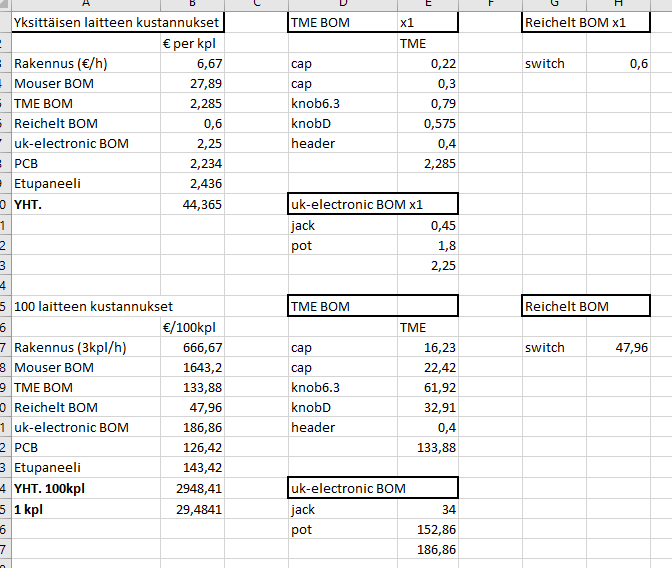
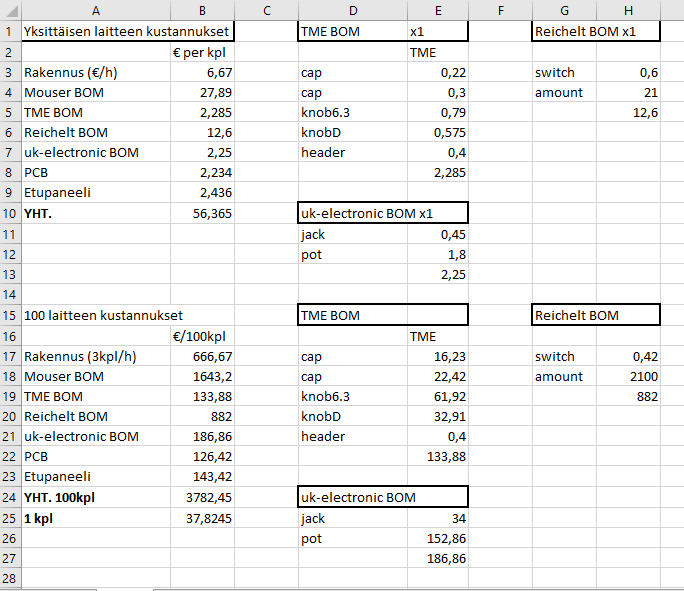
Add references, fix calculations

Changed region(s): [[0.0, 0.0, 1.0, 1.0]]

diff --git a/README.md b/README.md
@@ -68,7 +68,7 @@ Arduino a. What is Arduino?. Luettavissa: https://www.arduino.cc/en/Guide/Introd
 
 Arduino b.
 
-  * Arduino - Avoimen lähdekoodin alusta elektroniikka projektien kehitykseen [(Arduino a)](https://www.arduino.cc/en/Guide/Introduction).
+  * Arduino - Avoimen lähdekoodin alusta elektroniikka projektien kehitykseen. [(Louis 2016, 21)](https://www.arduino.cc/en/Guide/Introduction).
   * Teensy - Arduinon kaltainen, elektroniikka projektien kehitysalusta [(PJRC)](https://www.pjrc.com/teensy/).
   * Eurorack - De-facto standardi pienikokoisille modulaarisille syntetisaattoreille [(Leonora Tindall 2020)](https://nora.codes/post/modular-synthesis-and-unix/).
   * CV (Control Voltage) - Ohjausjännite, jolla voidaan ohjata analogisten syntetisaattoreiden eri osia.
@@ -76,8 +76,8 @@ Arduino b.
   * Oskillaattori - 
   * Sekvensseri - Musiikin tuotannossa käytetty ylensä elektroninen laite tai ohjelmisto, jonka avulla voidaan toistaa, muokata ja soittaa musikaalisia sekvenssejä.
   * Step - Askel. Sekvenssereissä käytetty määre, jolla mitataan sekvenssin pituutta.
-  * DAC (Digital to Analog Converter) - Mikropiiri, joka muuttaa sille annetun digitaalisen signaalin analogiseksi jännitteeksi. (Tähän lähde)
-  * SPI (Serial Peripheral Interface) - Tietoteknisten järjestelmiän käyttämä väylä, jonka avulla kokonaisen laitteen eri komponentit keskustelevat keskenään. (Etsi tähän lähde)
+  * DAC (Digital to Analog Converter) - Mikropiiri, joka muuttaa sille annetun digitaalisen signaalin analogiseksi jännitteeksi. (Rahman & al. 2016 s. 151)
+  * SPI (Serial Peripheral Interface) - Kaksisuuntainen kommunikaatioprotokolla, jolla yksi päälaite keskustelee useiden alilaitteiden kanssa. (Leens 2009)
   * PCB (Printed Circuit Board) - Piirilevy.
 
 ## 2. Taustaa
@@ -107,7 +107,7 @@ Tämän opinnäytetyön aikana valmistuva sekvensseri on myös sulautettu järje
 
 Tekninen monistaminen tämän opinnäytetyön puitteissa tarkoittaa opinnäytetyön aikana valmistuvan laitteen laitteen prototyypin kehittämistä siihen tilaan, että käsityötä vaativat prosessit ovat minimoitu ja suuri osa työstä saatettu automatisoitavaan tilaan. Laitteen prototyyppivaiheessa rakennus vaatii paljon komponenttien asettelua ja kolvaamista käsin.
 
-Tekninen monistaminen voidaan nähdä osana "rapid prototyping" teknologioita. "Rapid prototyping" teknologiat sekä prosessit ovat teollisuudessa käytettyjä prosesseja, joilla pyritään nopeuttamaan tuotteiden ja prototyyppien valmistusta. Näihin teknologioihin kuuluu esimerkiksi 3D-tulostus (/*Vaihda lähde, kirjoita uudestaan.*/ Kai, C. C., & Fai, L. K. (1997). Rapid Prototyping. Nanyang technological university). Esimerkiksi opinnäytetyön laitteen piirilevyt piirretään CAD-ohjelmistolla, jonka jälkeen piirilevyt tilataan niitä valmistavalta tehtaalta. Tällä prosessilla vältyytään piirilevyjen valmistamiselta itse ja lopputuloksena ovat yhdenmukaiset piirilevyt.
+Tekninen monistaminen voidaan nähdä osana "rapid prototyping" teknologioita. "Rapid prototyping" teknologiat sekä prosessit ovat teollisuudessa käytettyjä prosesseja, joilla pyritään nopeuttamaan tuotteiden ja prototyyppien valmistusta. Näihin teknologioihin kuuluu esimerkiksi 3D-tulostus [(Yue, Gu 1996, s. 307)](https://doi.org/10.1016/0010-4485(95)00035-6). Esimerkiksi opinnäytetyön laitteen piirilevyt piirretään CAD-ohjelmistolla, jonka jälkeen piirilevyt tilataan niitä valmistavalta tehtaalta. Tällä prosessilla vältyytään piirilevyjen valmistamiselta itse ja lopputuloksena ovat yhdenmukaiset piirilevyt.
 
 Valmistuvan laitteen teknisesti monistettava muoto ei tulisi sisältämään kuin pakollisen määrän komponentteja, jotka vaativat ihmisen niiden asennukseen. Esimerkiksi laitteen piirilevyjen valmistuksen aikana olisi mahdollista myös juottaa suuri osa komponenteista tehtaalla, jos laite rakentuisi pintaliitoskomponenteista.
 
@@ -145,7 +145,7 @@ Karpilla kertoo valmistuksessa ja suunnittelussa pyrkineensä yksinkertaisuuteen
 
 Jotta Karppilan laite saavuttaisi halutun laajan kohderyhmänsä tulisi laitteen kytkentöjen olla pysyviä ja laitteen eri komponenttien osana yhtä kokonaisuutta. Karppilan laitteen kohderyhmää rajoittaa näin ollen se, että laitetta tulisi harkitsemaan vain ne, joilla olisi osaamista ja halukkuutta rakentaa käsin Arduino-kehitysalustalle oma laitteensa.
 
-Laitetta ei välttämättä olisi tarvinnut koota täysin omaksi kokonaisuudekseen, vaan Arduino-alustan komponenteista oltaisiin voitu rakentaa "Arduino-kilpi". Arduino-kilvet ovat valmiita laitekokonaisuuksia, jotka voidaan kytkeä suoraan Arduino-kehitysalustaan [(Arduino b)](https://www.arduino.cc/en/Main/arduinoShields). Laitteen käyttäjän olisi vielä kuitenkin tarvinnut ohjelmoida laite.
+Laitetta ei välttämättä olisi tarvinnut koota täysin omaksi kokonaisuudekseen, vaan Arduino-alustan komponenteista oltaisiin voitu rakentaa "Arduino-kilpi". Arduino-kilvet ovat valmiita laitekokonaisuuksia, jotka voidaan kytkeä suoraan Arduino-kehitysalustaan. [(Louis 2016, 22.)](https://doi.org/10.5121/ijcacs.2016.1203) Laitteen käyttäjän olisi vielä kuitenkin tarvinnut ohjelmoida laite.
 
   // Viittaa täällä vielä konkreettisiin prosesseihin, joita Karppila olisi voinut tehdä (Kicad, kytkentäkaavat jne.) Viittaa tähän opinnäytetyön ja projektin rakennusvaiheisiin
 
@@ -234,6 +234,14 @@ Etupaneelin grafiikoiden suunnittelussa käytettiin KiCadin lisäksi myös GIMP-
 
 **x.1.1 Piirilevy**
 
+Ennen varsinaisten piirilevyjen piirtoa kannattaa selvittää piirilevyjä valmistavia yrityksiä, sekä näiden yritysten tarjoamia palveluita. Komponenttien ja piirien kannalta on hyvä tarkastella yrityksen piirilevyille asettamia rajoituksia. Rajoituksia voivat olla esimerkiksi piirien johtimien minimimitta tai piirilevyn minimi- ja maksimitat. Rajoitukset voivat vaikuttaa komponenttien valintaan, jos halutaan käyttää esimerkiksi todella pieniä mikropiirejä, tai ohuita ja toisiaan lähellä olevia johtimia.
+
+![jlcspec](./imgs/jlcspecs001.png)
+
+_JLCPCB:n minimimittoja johtimille_
+
+Piirilevyjen valmistajaksi valittiin tässä projektissa JLCPCB. Valinta tehtiin opinnäytetyöntekijän aikaisemman kokemuksen johdosta. Muita vastaavia palveluja tuottavia yrityksiä ovat mm. ALLPCB sekä Seeed Studio.
+
 Teknisen monistamisen helpottamiseksi piirilevyllä päätettiin käyttää pintaliitoskomponentteja niin paljon kuin mahdollista. Pintaliitoskomponentit on mahdollista juotatuttaa kiinni piirilevyyn valmiiksi monilla piirilevyjä valmistavilla tehtailla. Tämä laskisi merkittävästi laitteen rakennusaikaa ja näin laskisi laitteen mahdollista katteetonta hintaa.
 
 Piirilevyn piirron aikana ensiksi asetettiin paikoilleen käyttöliittymän kriittisimmät komponentit, kuten painikkeet, segmenttinäytöt sekä ulostulojakit.
@@ -294,10 +302,23 @@ _Potentiometrin kääntösädettä kuvaava kaari GIMP-kuvankäsittelyohjelmassa 
 
 _Valmiin etupaneelin 3D-renderi_
 
-**x.2 Komponenttien listaus ja tilaus**
+**x.2 Piirilevyjen ja etupaneelien tilaus**
 
-  // BOM
-  // Mouser
+Laitteen piirilevyjen ja etupaneelien tilauksen pystyisi tekemään samalta yritykseltä, sillä laitteen etupaneeliksi käy lujuutensa puolesta "tyhjä" piirilevy. Ennen tilausta tulisi piirilevypiirrokset kääntää Gerber-tiedostomuotoon, jota tehtaiden koneet pystyvät lukemaan [(Moreno-Báez & al. 2012, s.241)](https://doi.org/10.1016/j.proeng.2012.04.186).
+
+Piirilevypiirroksen kääntäminen onnistuu KiCad-ohjelmiston sisällä. Kun piirilevyjä valmistava taho on valittu kannattaa tarkistaa missä muodossa kyseinen yritys haluaa Gerber-tiedostot. Yritysten välillä on eroa esimerkiksi siinä, mitä tasoja pitää olla mukana Gerber-tiedostoissa. Ylensä yritykset tarjoavat myös kuvalliset ohjeet tunnetuimmille ohjelmistoille.
+
+![jlcspecs002](./imgs/jlcspecs002.png)
+
+_JLCPCB tarjoaa kuvalliset ohjeet Gerber-tiedostojen luontiin_
+
+Useimmiten piirilevyjä voidaan tilata monissa eri paksuuksissa, mitoissa ja väreissä. JLCPCB:n tilaussivulla tulee myös näkyviin kuvat piirilevyjen molemmista puolista, jos Gerber-tiedostot on luotu onnistuneesti.
+
+![jlcpcb002](./imgs/jlcpcb002.png)
+
+_Etupaneeli esikatseluikkunassa JLCPCB:n tilaussivulla_
+
+**x.3 Komponenttien listaus ja tilaus**
 
 KiCad tarjoaa valmiit työkalut osalistojen luomiseen kytkentäkaavojen pohjalta, joka helpottaa huomattavasti projektien tekoa. Osalistoja kutsutaan yleisesti nimellä "Bill of Materials". Kyseiseen listaan kuuluvat elektroniikkakomponenttien lisäksi myös kaikki muut laitteen rakentamiseen vaadittavat osat, kuten mm. piirilevyt, sekä etupaneelit. "Bill of Materials" on siis kattava, kaikkien komponenttien, osien ja raaka-aineiden lista joita vaaditaan minkä tahansa tuotteen rakentamiseen [(Investopedia - Bill of Materials)](https://www.investopedia.com/terms/b/bill-of-materials.asp)
 
@@ -353,11 +374,37 @@ Harjoittelun myötä laiteen asennukseen kuluva aika voisi olla 15 minuuttia. La
 
 Tämän opinnäytetyön projektin aikana on jätetty pois tarkka laitteen ohjelmistokehitykseen kuluva aika, sekä tästä koituvat kustannukset. Projektisuunnitelmassa tämän ajan on kuitenkin arvioitu kustantavan 10 000 euroa. Tämä luku on muodostunut 750 euron teoreettisesta viikkopalkasta, joka on kerrottu 13:sta työviikolla. Tätä lukua ei kuitenkaan tulla suhteuttamaan laitteen rakennuskustannuksiin.
 
-Laitteen rakennuksen kustannuksissa oletetaan yhden työtunnin maksavan 20 euroa. Yhden tunnin aikana pystyisi realistisesti rakentamaan kolme valmista laitetta. Yhden laitteen rakennukseen käytettävä aika tulisi siis maksamaan n. 6,67 euroa. Seuraavaksi kaikkien komponenttien hinta lisättiin laskuihin. Piirilevyjen ja etupaneelien hinta saatiin suoraan aiemmin tehdyn tilauksen tilausvahvistuksesta. Yhden laitteen rakentamisen kokonaiskustannuksiksi saatiin 44,365 euroa.
+Laitteen rakennuksen kustannuksissa oletetaan yhden työtunnin maksavan 20 euroa. Yhden tunnin aikana pystyisi realistisesti rakentamaan kolme valmista laitetta. Yhden laitteen rakennukseen käytettävä aika tulisi siis maksamaan n. 6,67 euroa. Komponenttien, piirilevyjen, sekä etupaneelien hinnat saatiin suoraan projektin aikana tehdyistä tilauksista, tai verkkokauppojen projektienhallinnasta.
 
-Seuraavaksi laskettiin sadan laitteen rakennuksen hinta. Sadan laitteen rakennus veisi yhdeltä ihmiseltä n. 33,3 tuntia, joka on vielä realistinen työtaakka yhdelle ihmiselle. Työtunnin hinta pysyi sama kuin aikaisemmissa laskelmissa. Piirilevyjen ja etupaneelien hinta saatiin suoraan JLCPCB:n projektiseurannasta. Komponenttimäärien satakertaistuminen voisi kuitenkin johtaa huomattaviin säästöihin, sillä useat komponenttijakelijat tarjoavat kappalehintoihin alennuksia tilausmäärän mukaan. 
+Yhden laitteen rakennuksen hinta koostui rakennukseen käytetystä ajasta, komponenttien, etupaneelin, sekä piirilevyn hinnasta. Rakennukseen kuluneessa ajassa ei otettu huomioon pintaliitoskomponenttien juottamiseen kulunutta aikaa, sillä tavallisesti se olisi tehty jo piirilevyjä valmistavalla tehtaalla.
 
-Työtuntien hinnaksi sadan laitteen kohdalla tuli 666,67 euroa, johon lisättiin kaikkien komponenttien hinta. Sadan laitteen rakennus maksaisi yhteensä 2678,57 euroa. Yhden laitteen hinnaksi tulisi tällöin 29,4841 euroa. Yhden laitteen hinta sadan laitteen joukosta olisi tällöin noin 66,45% yhden laitteen hinnasta, jos sitä tilattaisiin ja rakennettaisiin vain yksi kappale.
+Yhden laitteen kustannukset jaoteltuna:
+
+  * Rakennuksen kulut: 6,67€ ((20€/h) / laitteen rakennukseen kulunut aika).
+  * Mouserin komponenttien hinta: 27,89€.
+  * TME:n komponenttien hinta: 2,285€
+  * Reicheltin komponenttien hinta: 12,6€
+  * UK-Electronic:n komponenttien hinta: 2,25€
+  * Piirilevy: 2,234€
+  * Etupaneeli: 2,436€
+
+Yhdelle laitteelle tuli hintaa yhteensä 56,365 euroa.
+
+Yhden yksittäin rakennetun laitteen hinta on aina kalliimpi kuin useamman, sillä komponenttien jakelijat antavat alennuksia komponenttien hintoihin tilausmäärän kasvaessa. Seuraavaksi laskettiin sadan laitteen mahdolliset kustannukset.
+
+Sadan laitteen kustannukset jaoteltuna:
+
+  * Rakennuksen kulut: 666,67€ (yhden laitteen hinta * 100).
+  * Mouserin komponenttien hinta: 1643,2€
+  * TME:n komponenttien hinta: 133,88€
+  * Reicheltin komponenttien hinta: 882€
+  * UK-electronic:n komponenttien hinta: 186,86€
+  * Piirilevyt: 126,42€
+  * Etupaneelit: 143,42€
+
+Sadalle laitteelle tulisi hintaa yhteensä 3782,45 euroa. Tällöin yhdelle laitteelle sadan laitteen sarjasta tulisi hintaa n. 37,82 euroa.
+
+Sadan laitteen erässä yhden laitteen hinta olisi vain 67,1 prosenttia yhden yksittäin rakennetun laitteen hinnasta.
 
 ![calcs001](./imgs/calcs001.png)
 
@@ -369,13 +416,15 @@ _Laskelmia laitteen monistamisesta_
 
 ## Lähteet
 
-Arduino a. What is Arduino?. Luettavissa: https://www.arduino.cc/en/Guide/Introduction. Luettu 26.4.2021.
-
-Arduino b. Shields. Luettavissa: https://www.arduino.cc/en/Main/arduinoShields. Luettu 26.4.2021.
+Louis, L. 2016. Working principle of Arduino and using it as a tool for study and research. Gujarat International Journal of Control, Automation, Communication and Systems. s. 21-29. Luettavissa: https://doi.org/10.5121/ijcacs.2016.1203. Luettu 30.4.2021.
 
 PJRC. Teensy® USB Development Board. Luettavissa: https://www.pjrc.com/teensy/. Luettu 26.4.2021.
 
 Leonora Tindall 2020. Modular Synthesis and UNIX. Luettavissa: https://nora.codes/post/modular-synthesis-and-unix/. Luettu 26.4.2021
+
+Rahman, L. F. & al. 2016 The evolution of digital to analog converter. International Conference on Advances in Electrical, Electronic and Systems Engineering (ICAEES). Luettavissa: https://ieeexplore.ieee.org/abstract/document/7888028/metrics#metrics. Luettu 30.4.2021.
+
+Leens, F. 2009. An introduction to I2C and SPI protocols. IEEE Instrumentation & Measurement Magazine. s. 9. Luettavissa: https://ieeexplore.ieee.org/abstract/document/4762946. Luettu 30.4.2021.
 
 Reverb 2020. Beginner's Guide to Eurorack: Case Basics, Power Supplies, and Your First Modules. Luettavissa: https://reverb.com/news/beginners-guide-to-eurorack-case-basics-oscillators-filters. Luettu 26.4.2021.
 
@@ -394,9 +443,9 @@ PlatformIO. What is PlatformIO?. Luettavissa: https://docs.platformio.org/en/lat
 
 Microchip. MCP23017/MCP23S17. Luettavissa: https://ww1.microchip.com/downloads/en/devicedoc/20001952c.pdf. Luettu 26.4.2021.
 
+Moreno-Báez, A & al. 2012. Processing Gerber files for manufacturing printed circuitboards. Procedia Engineering. Vol.35. s. 240-244. Luettavissa: https://doi.org/10.1016/j.proeng.2012.04.186. Luettu 30.4.2021.
+
 Mitchell Grant 2020. Bill of Materials (BOM). Investopedia. Luettavissa: https://www.investopedia.com/terms/b/bill-of-materials.asp. Luettu 26.4.2021.
 
-/* X. Kai, C. C., & Fai, L. K. (1997). Rapid Prototyping. _Nanyang technological university_. */
-
-// Yllä oleva kadonnut internetistä? Katso joku vastaava, korjaa luku 2.3.
+Yan, X. Gu, P. E. N. G. 1996. A review of rapid prototyping technologies and systems. Computer-aided design. Vol.28:4 s. 307-318. Luettavissa: https://doi.org/10.1016/0010-4485(95)00035-6. Luettu 30.4.2021.
 
